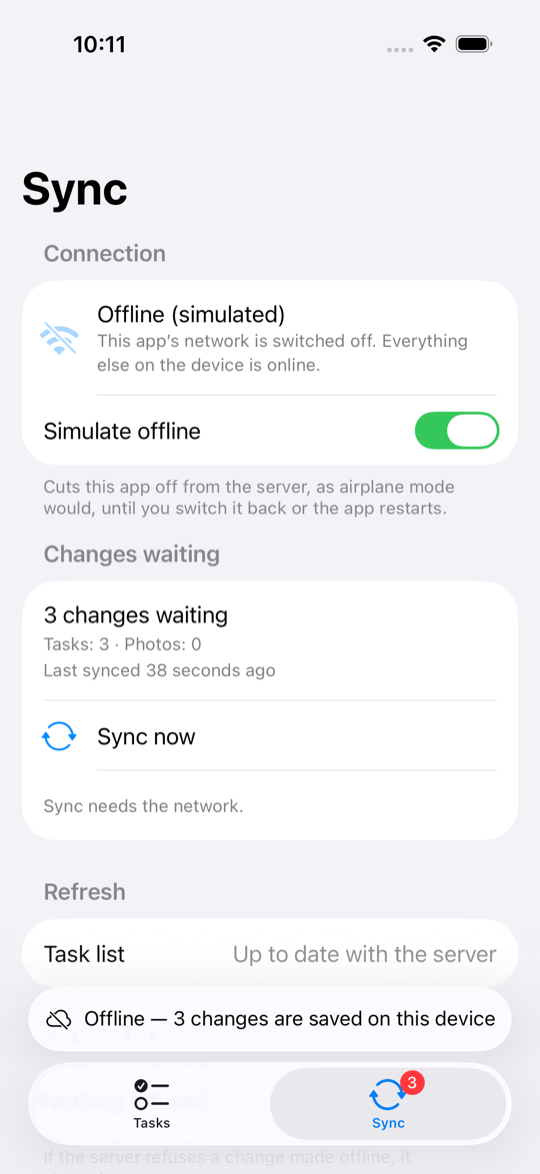
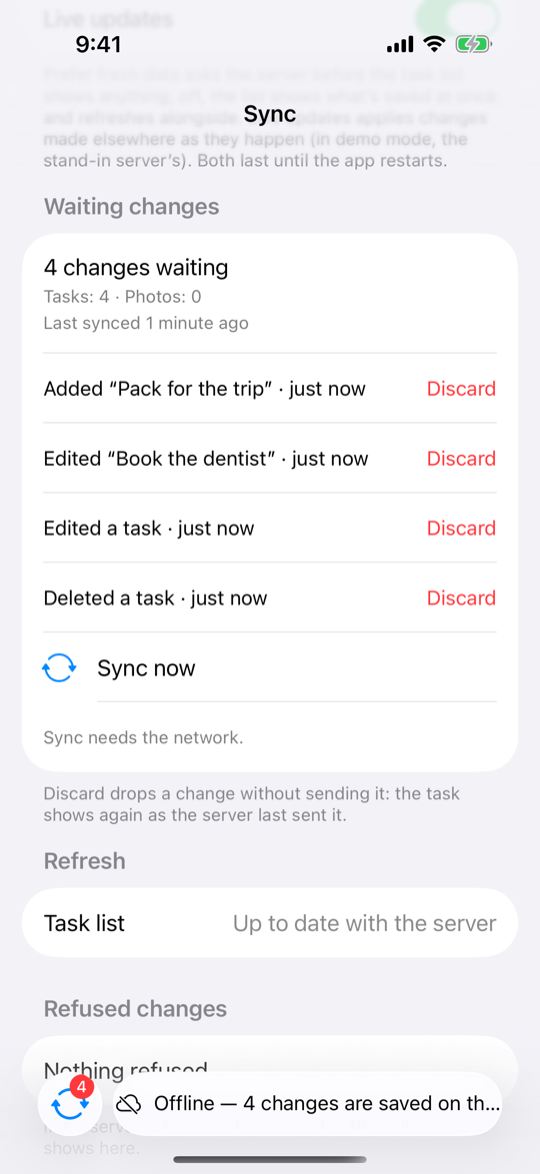
docs(samples): retake the screenshots on both samples and add three screens (#139)
Every screenshot is retaken at the current screens, light mode, 540 pixels wide:
Android on an emulator against a project, iOS on a simulator in demo mode. New:
New task with two photos, a task's photos waiting to upload, and the Sync tab's
Try it. Each image's alt text says what it shows.

diff --git a/docs/samples/ios.md b/docs/samples/ios.md
@@ -81,7 +81,7 @@ signed in, the **+** button is hidden, and the Sync tab's **Queue an invalid tit
 off: every row needs its user, and only the server can create one. The app signs in as soon as it reaches the
 internet.
 
-![The task list before the first sign-in, offline: "Not signed in yet", and no New task button](../assets/samples/ios/not-signed-in.png){ width="270" loading=lazy }
+![The Tasks tab before the first sign-in, offline: the subtitle says offline, the list says "Not signed in yet", there is no + button, and the status above the tab bar says changes are saved on this device](../assets/samples/ios/not-signed-in.png){ width="270" loading=lazy }
 
 ## Demo mode
 
@@ -114,7 +114,7 @@ server or not at all, so offline the sheet says why and keeps your text. Online,
 app says the time the server stored it at: the row's `updated_at`, which the server sets, from the
 row it sends back (`created_at` is the device's time).
 
-![The task list offline: two tasks marked as not synced yet, and the status above the tab bar counting two changes saved on the device](../assets/samples/ios/offline-changes.png){ width="270" loading=lazy }
+![The Tasks tab offline, in demo mode: "4 changes waiting", two tasks with a cloud mark for a change not synced yet, one of them with two photos, and the status above the tab bar saying 4 changes are saved on this device](../assets/samples/ios/offline-changes.png){ width="270" loading=lazy }
 
 ### Come back and watch it send
 
@@ -133,7 +133,7 @@ the next launch that has the network. Simulate offline does not outlive the app,
 has no airplane mode, so to launch with no network at all, turn off the Mac's Wi-Fi (the simulator
 shares it), or use airplane mode on a device.
 
-![The Sync tab offline: three changes waiting, all to tasks, with Sync now switched off](../assets/samples/ios/changes-waiting.png){ width="270" loading=lazy }
+![The Sync tab's Waiting changes offline: 4 changes waiting, all to tasks, each with Discard, and Sync now switched off because sync needs the network](../assets/samples/ios/changes-waiting.png){ width="270" loading=lazy }
 
 ### Queue an invalid title
 
@@ -147,7 +147,7 @@ it was made and refused, and the row it was for; an alert says so, and its **Vie
 **Retry** sends it again, and is switched off for a change that can no longer be sent as it was
 made; **Dismiss** removes it.
 
-![The Sync tab's Refused changes: "Couldn't save (no title)", the reason, "The server answered HTTP 400 · 23514", and Retry and Dismiss](../assets/samples/ios/refused-change.png){ width="270" loading=lazy }
+![The Sync tab's Refused changes: "Couldn't save "(no title)"", the reason, when it was made and refused, "The server answered HTTP 400 · 23514", Retry and Dismiss; below it the Server and Storage sections](../assets/samples/ios/refused-change.png){ width="270" loading=lazy }
 
 ### Attach a photo
 
@@ -225,6 +225,8 @@ Each item says which call it makes, then what happened:
   waits.
 - **Upload through a signed URL**: a generated photo on your newest task, through a one-time upload
   URL, the way an upload is handed to code that holds no session.
+
+![The Sync tab's Try it, offline: the invalid title queued, and the delete of last week's done tasks refused in the library's own words, nothing changed](../assets/samples/ios/try-it.png){ width="270" loading=lazy }
 
 ### Start over
 
